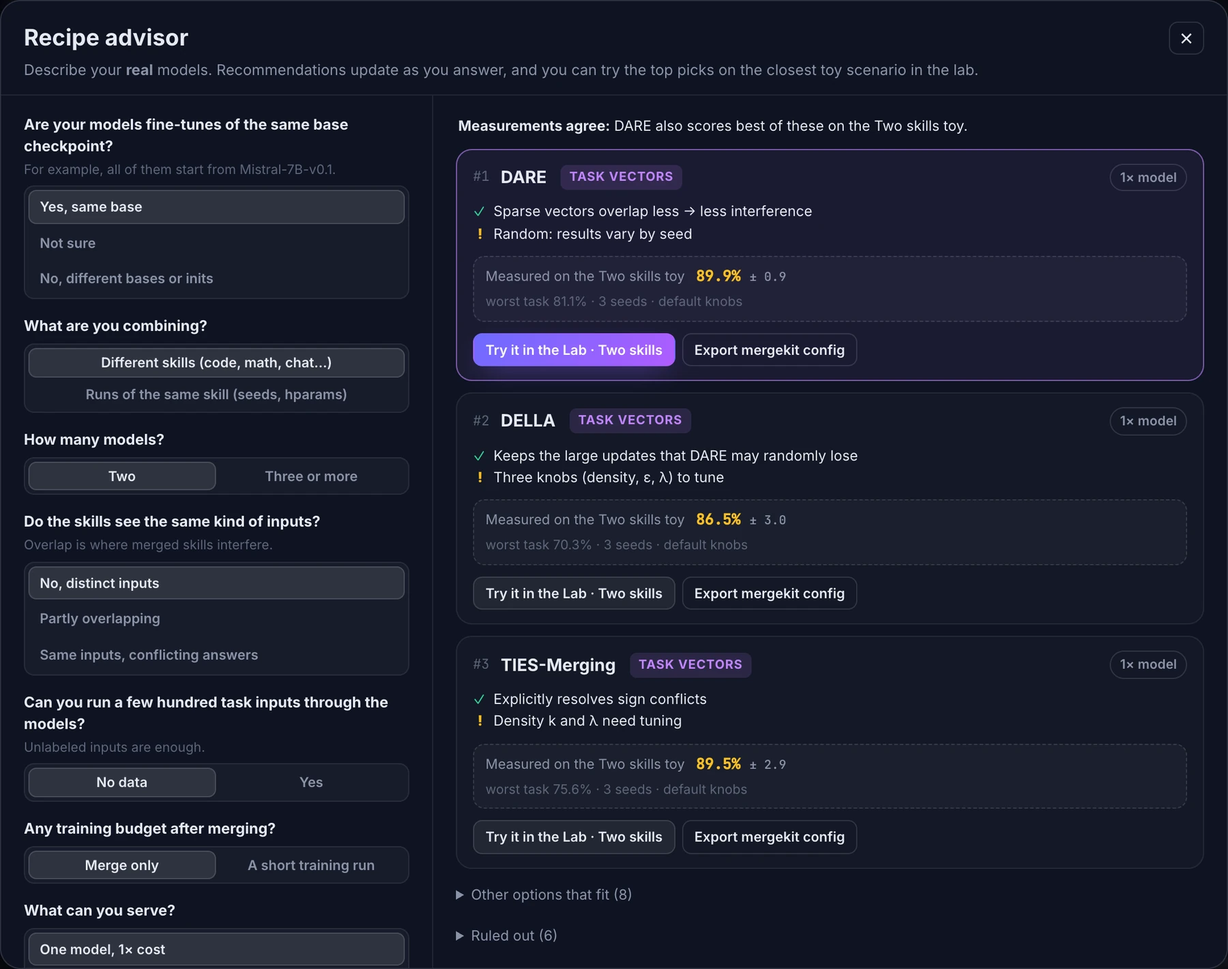
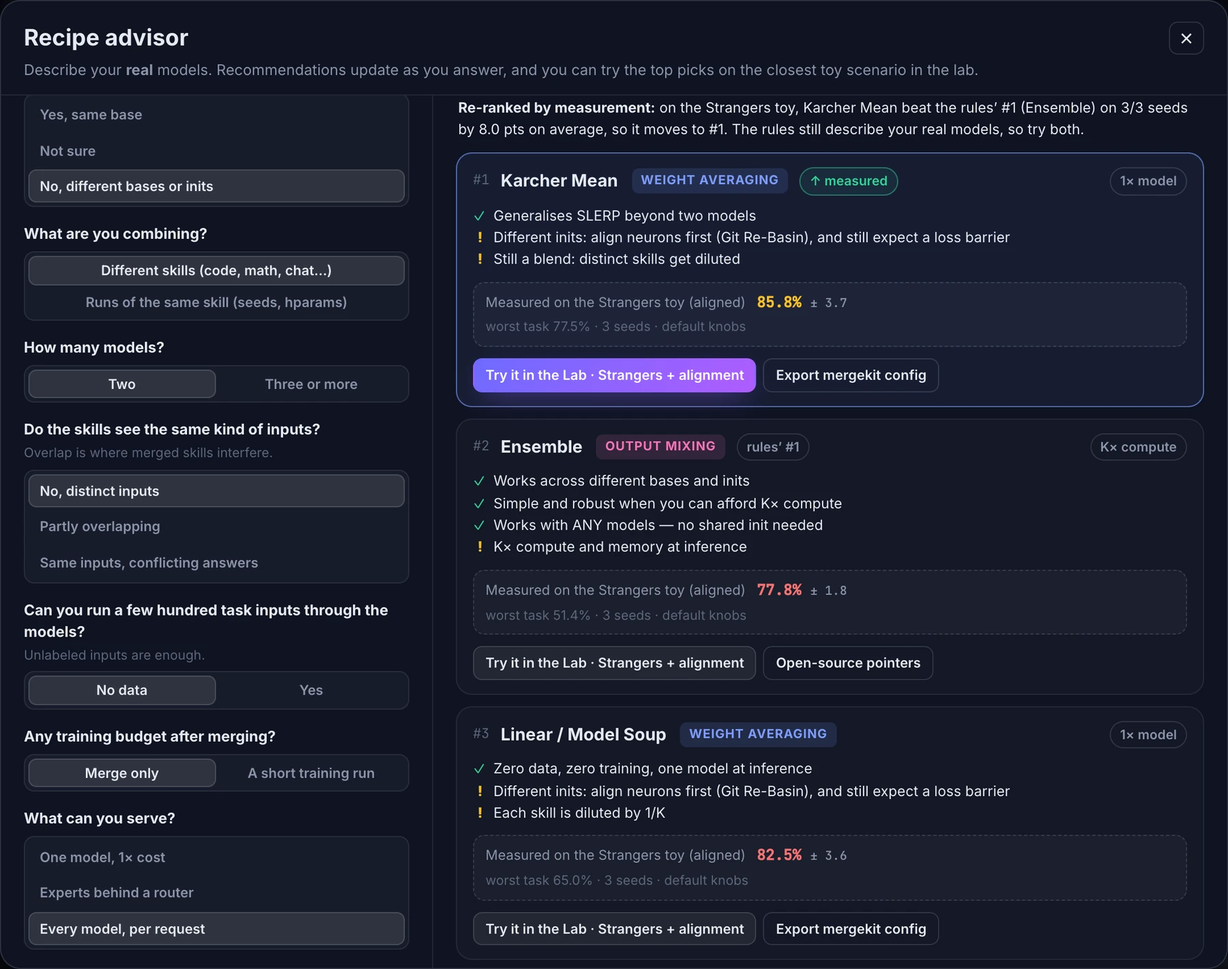
Advisor: re-rank picks when measurement clearly beats the rules
- Once the top-3 picks are measured on the closest toy (3 seeds), a lower pick that beats
  the rules' #1 under the paired test (significant or winning every seed) is promoted to
  #1 with an "↑ measured" badge and the primary Try button; the old #1 keeps a "rules' #1"
  tag; otherwise rule order stands
- Verdict line explains re-ranking vs agreement / too close / disagreement
- advisor.js blendRanking (+1 test, 52 total); screenshot script shows the re-ranked case
  (no shared base, any serving: Karcher beats Ensemble 3/3 seeds, +8.0 pts)

diff --git a/dist/modelmixer.html b/dist/modelmixer.html
@@ -589,6 +589,11 @@ dialog.advisor::backdrop { background: rgba(4, 6, 12, 0.7); backdrop-filter: blu
 .cmp-box .edge .verdict { margin: 0; font-size: 12.5px; }
 .cmp-box .edge-msg:empty { display: none; }
 
+/* advisor re-ranking */
+.rec-top .badge.moved { margin-left: 0; color: var(--muted); }
+.rec-top .badge.moved.up { color: #34d399; border-color: rgba(52, 211, 153, 0.45); background: rgba(52, 211, 153, 0.08); }
+.rec-top .badge.moved + .badge { margin-left: auto; }
+
 </style>
 </head>
 <body>
@@ -2749,7 +2754,28 @@ dialog.advisor::backdrop { background: rgba(4, 6, 12, 0.7); backdrop-filter: blu
     return { answers: a, recs, excluded, notes, scenario, align: a.base === 'no' };
   }
 
-  Object.assign(MM, { ADVISOR_QUESTIONS, ADVISOR_DEFAULTS, adviseRecipe });
+  /**
+   * Blend rules with measurement. ids = top picks in rule order; perSeed[id] = per-seed results
+   * ([{avg, …} | {blocked}], same seeds for every id). A lower pick that beats the rules' #1 under the
+   * paired test (significant, or winning every seed) is promoted to #1; otherwise the rule order stands.
+   */
+  function blendRanking(ids, perSeed) {
+    const n = Math.min(...ids.map((id) => (perSeed[id] || []).length));
+    const runs = Array.from({ length: n }, (_, s) => Object.fromEntries(ids.map((id) => [id, perSeed[id][s]])));
+    const first = ids[0];
+    let best = null;
+    for (const id of ids.slice(1)) {
+      const d = MM.pairedDiff(runs, id, first);
+      if (d.verdict === 'a' && (!best || d.mean > best.d.mean)) best = { id, d };
+    }
+    return {
+      order: best ? [best.id, ...ids.filter((x) => x !== best.id)] : ids.slice(),
+      promoted: best ? { id: best.id, over: first, d: best.d } : null,
+      runs,
+    };
+  }
+
+  Object.assign(MM, { ADVISOR_QUESTIONS, ADVISOR_DEFAULTS, adviseRecipe, blendRanking });
 })();
 
 </script>
@@ -4643,6 +4669,7 @@ dialog.advisor::backdrop { background: rgba(4, 6, 12, 0.7); backdrop-filter: blu
   const EV_SEEDS = [7, 108, 209];
   const evBundles = {}; // scenarioId -> trained bundles (one per seed)
   const evCache = {}; // `${scenario}|${align}|${id}` -> seed summary
+  const evSeeds = {}; // same key -> per-seed results, for the paired re-ranking
   let evToken = 0;
   const evKey = (r, id) => `${r.scenario}|${r.align ? 1 : 0}|${id}`;
   function evidenceHTML(id, r, sc) {
@@ -4654,7 +4681,12 @@ dialog.advisor::backdrop { background: rgba(4, 6, 12, 0.7); backdrop-filter: blu
       <span class="ev-val ${tone}">${pct(e.mean)} <small>± ${(e.sd * 100).toFixed(1)}</small></span>
       <span class="ev-sub">worst task ${pct(e.worstTask)} · ${e.seeds} seeds · default knobs</span>`;
   }
-  function evidenceVerdict(r, sc) {
+  function evidenceVerdict(r, sc, blend) {
+    const nm = (id) => MM.METHOD_BY_ID[id].name;
+    if (blend && blend.promoted) {
+      const { id, over, d } = blend.promoted;
+      return `<b>Re-ranked by measurement:</b> on the ${sc.name} toy, ${nm(id)} beat the rules’ #1 (${nm(over)}) on ${d.wins}/${d.n} seeds by ${(d.mean * 100).toFixed(1)} pts on average, so it moves to #1. The rules still describe your real models, so try both.`;
+    }
     const top = r.recs.slice(0, 3).map((x) => ({ id: x.id, e: evCache[evKey(r, x.id)] }));
     if (top.some((x) => !x.e)) return '<span class="muted">Checking these picks on a toy that resembles your setup…</span>';
     const ok = top.filter((x) => !x.e.blocked);
@@ -4693,11 +4725,18 @@ dialog.advisor::backdrop { background: rgba(4, 6, 12, 0.7); backdrop-filter: blu
       if (token !== evToken) return;
       const runs = MM.seedRuns(evBundles[r.scenario], [id], r.align, (mid, K) => MM.defaultParams(MM.METHOD_BY_ID[mid], K));
       evCache[evKey(r, id)] = MM.summarizeSeeds(runs, [id])[0];
+      evSeeds[evKey(r, id)] = runs.map((run) => run[id]);
       const el = $(`#advRecs [data-ev="${id}"]`);
       if (el) el.innerHTML = evidenceHTML(id, r, sc);
     }
-    const v = $('#evVerdict');
-    if (v && token === evToken) v.innerHTML = evidenceVerdict(r, sc);
+    // all three measured: re-render so the cards can be re-ranked by the paired evidence
+    if (token === evToken && advDlg.open) renderAdvisor();
+  }
+  /** Paired blend of rules and measurement, once all top picks are measured; null until then. */
+  function advisorBlend(r) {
+    const ids = r.recs.slice(0, 3).map((x) => x.id);
+    if (ids.length < 2 || ids.some((id) => !evSeeds[evKey(r, id)])) return null;
+    return MM.blendRanking(ids, Object.fromEntries(ids.map((id) => [id, evSeeds[evKey(r, id)]])));
   }
 
   function renderAdvisor() {
@@ -4708,12 +4747,16 @@ dialog.advisor::backdrop { background: rgba(4, 6, 12, 0.7); backdrop-filter: blu
     const sc = MM.SCENARIOS.find((x) => x.id === r.scenario);
     const uniq = (xs) => Array.from(new Set(xs));
     const cost = (m) => (m.inferenceK === true ? 'K× compute' : m.inferenceK === 'memory' ? 'K× memory' : '1× model');
-    const cards = r.recs.slice(0, 3).map((x, i) => {
+    const blend = advisorBlend(r);
+    const top3 = r.recs.slice(0, 3);
+    const ordered = blend ? blend.order.map((id) => top3.find((x) => x.id === id)) : top3;
+    const cards = ordered.map((x, i) => {
       const m = MM.METHOD_BY_ID[x.id], f = MM.FAMILIES[m.family];
+      const moved = blend && blend.promoted ? (x.id === blend.promoted.id ? 'up' : x.id === blend.promoted.over ? 'down' : '') : '';
       const pros = uniq([...x.reasons.filter((t) => !/^Shared base/.test(t)), m.pros[0]]).slice(0, 3);
       const cons = uniq([...x.caveats, m.cons[0]]).slice(0, 2);
       return `<div class="rec ${i === 0 ? 'first' : ''}" style="--fc:${f.color}">
-        <div class="rec-top"><span class="rec-rank">#${i + 1}</span><b>${m.name}</b><span class="fam-tag" style="--fc:${f.color}">${f.name}</span><span class="badge">${cost(m)}</span></div>
+        <div class="rec-top"><span class="rec-rank">#${i + 1}</span><b>${m.name}</b><span class="fam-tag" style="--fc:${f.color}">${f.name}</span>${moved === 'up' ? '<span class="badge moved up" title="Promoted: beat the rules’ #1 on the toy under the paired test">↑ measured</span>' : moved === 'down' ? '<span class="badge moved" title="The rules ranked this first">rules’ #1</span>' : ''}<span class="badge">${cost(m)}</span></div>
         <ul>${pros.map((t) => `<li class="pro">${t}</li>`).join('')}${cons.map((t) => `<li class="con">${t}</li>`).join('')}${!pros.length && !cons.length ? `<li class="pro">${m.tagline}</li>` : ''}</ul>
         <div class="evidence" data-ev="${x.id}">${evidenceHTML(x.id, r, sc)}</div>
         <div class="rec-actions">
@@ -4725,7 +4768,7 @@ dialog.advisor::backdrop { background: rgba(4, 6, 12, 0.7); backdrop-filter: blu
     const outs = r.excluded.map((x) => `<div class="alt"><b>${MM.METHOD_BY_ID[x.id].name}</b><span>${x.why}</span></div>`).join('');
     measureEvidence(r);
     $('#advRecs').innerHTML = `${r.notes.map((n) => `<div class="adv-note">${n}</div>`).join('')}
-      ${cards ? `<div class="ev-verdict" id="evVerdict">${evidenceVerdict(r, sc)}</div>` : ''}
+      ${cards ? `<div class="ev-verdict" id="evVerdict">${evidenceVerdict(r, sc, blend)}</div>` : ''}
       ${cards || '<p class="muted">Nothing fits every constraint. Relax one of them (data, training or serving) to see options.</p>'}
       ${alts ? `<details class="adv-more"><summary>Other options that fit (${r.recs.length - 3})</summary>${alts}</details>` : ''}
       ${outs ? `<details class="adv-more"><summary>Ruled out (${r.excluded.length})</summary>${outs}</details>` : ''}`;

diff --git a/js/app.js b/js/app.js
@@ -1401,6 +1401,7 @@
   const EV_SEEDS = [7, 108, 209];
   const evBundles = {}; // scenarioId -> trained bundles (one per seed)
   const evCache = {}; // `${scenario}|${align}|${id}` -> seed summary
+  const evSeeds = {}; // same key -> per-seed results, for the paired re-ranking
   let evToken = 0;
   const evKey = (r, id) => `${r.scenario}|${r.align ? 1 : 0}|${id}`;
   function evidenceHTML(id, r, sc) {
@@ -1412,7 +1413,12 @@
       <span class="ev-val ${tone}">${pct(e.mean)} <small>± ${(e.sd * 100).toFixed(1)}</small></span>
       <span class="ev-sub">worst task ${pct(e.worstTask)} · ${e.seeds} seeds · default knobs</span>`;
   }
-  function evidenceVerdict(r, sc) {
+  function evidenceVerdict(r, sc, blend) {
+    const nm = (id) => MM.METHOD_BY_ID[id].name;
+    if (blend && blend.promoted) {
+      const { id, over, d } = blend.promoted;
+      return `<b>Re-ranked by measurement:</b> on the ${sc.name} toy, ${nm(id)} beat the rules’ #1 (${nm(over)}) on ${d.wins}/${d.n} seeds by ${(d.mean * 100).toFixed(1)} pts on average, so it moves to #1. The rules still describe your real models, so try both.`;
+    }
     const top = r.recs.slice(0, 3).map((x) => ({ id: x.id, e: evCache[evKey(r, x.id)] }));
     if (top.some((x) => !x.e)) return '<span class="muted">Checking these picks on a toy that resembles your setup…</span>';
     const ok = top.filter((x) => !x.e.blocked);
@@ -1451,11 +1457,18 @@
       if (token !== evToken) return;
       const runs = MM.seedRuns(evBundles[r.scenario], [id], r.align, (mid, K) => MM.defaultParams(MM.METHOD_BY_ID[mid], K));
       evCache[evKey(r, id)] = MM.summarizeSeeds(runs, [id])[0];
+      evSeeds[evKey(r, id)] = runs.map((run) => run[id]);
       const el = $(`#advRecs [data-ev="${id}"]`);
       if (el) el.innerHTML = evidenceHTML(id, r, sc);
     }
-    const v = $('#evVerdict');
-    if (v && token === evToken) v.innerHTML = evidenceVerdict(r, sc);
+    // all three measured: re-render so the cards can be re-ranked by the paired evidence
+    if (token === evToken && advDlg.open) renderAdvisor();
+  }
+  /** Paired blend of rules and measurement, once all top picks are measured; null until then. */
+  function advisorBlend(r) {
+    const ids = r.recs.slice(0, 3).map((x) => x.id);
+    if (ids.length < 2 || ids.some((id) => !evSeeds[evKey(r, id)])) return null;
+    return MM.blendRanking(ids, Object.fromEntries(ids.map((id) => [id, evSeeds[evKey(r, id)]])));
   }
 
   function renderAdvisor() {
@@ -1466,12 +1479,16 @@
     const sc = MM.SCENARIOS.find((x) => x.id === r.scenario);
     const uniq = (xs) => Array.from(new Set(xs));
     const cost = (m) => (m.inferenceK === true ? 'K× compute' : m.inferenceK === 'memory' ? 'K× memory' : '1× model');
-    const cards = r.recs.slice(0, 3).map((x, i) => {
+    const blend = advisorBlend(r);
+    const top3 = r.recs.slice(0, 3);
+    const ordered = blend ? blend.order.map((id) => top3.find((x) => x.id === id)) : top3;
+    const cards = ordered.map((x, i) => {
       const m = MM.METHOD_BY_ID[x.id], f = MM.FAMILIES[m.family];
+      const moved = blend && blend.promoted ? (x.id === blend.promoted.id ? 'up' : x.id === blend.promoted.over ? 'down' : '') : '';
       const pros = uniq([...x.reasons.filter((t) => !/^Shared base/.test(t)), m.pros[0]]).slice(0, 3);
       const cons = uniq([...x.caveats, m.cons[0]]).slice(0, 2);
       return `<div class="rec ${i === 0 ? 'first' : ''}" style="--fc:${f.color}">
-        <div class="rec-top"><span class="rec-rank">#${i + 1}</span><b>${m.name}</b><span class="fam-tag" style="--fc:${f.color}">${f.name}</span><span class="badge">${cost(m)}</span></div>
+        <div class="rec-top"><span class="rec-rank">#${i + 1}</span><b>${m.name}</b><span class="fam-tag" style="--fc:${f.color}">${f.name}</span>${moved === 'up' ? '<span class="badge moved up" title="Promoted: beat the rules’ #1 on the toy under the paired test">↑ measured</span>' : moved === 'down' ? '<span class="badge moved" title="The rules ranked this first">rules’ #1</span>' : ''}<span class="badge">${cost(m)}</span></div>
         <ul>${pros.map((t) => `<li class="pro">${t}</li>`).join('')}${cons.map((t) => `<li class="con">${t}</li>`).join('')}${!pros.length && !cons.length ? `<li class="pro">${m.tagline}</li>` : ''}</ul>
         <div class="evidence" data-ev="${x.id}">${evidenceHTML(x.id, r, sc)}</div>
         <div class="rec-actions">
@@ -1483,7 +1500,7 @@
     const outs = r.excluded.map((x) => `<div class="alt"><b>${MM.METHOD_BY_ID[x.id].name}</b><span>${x.why}</span></div>`).join('');
     measureEvidence(r);
     $('#advRecs').innerHTML = `${r.notes.map((n) => `<div class="adv-note">${n}</div>`).join('')}
-      ${cards ? `<div class="ev-verdict" id="evVerdict">${evidenceVerdict(r, sc)}</div>` : ''}
+      ${cards ? `<div class="ev-verdict" id="evVerdict">${evidenceVerdict(r, sc, blend)}</div>` : ''}
       ${cards || '<p class="muted">Nothing fits every constraint. Relax one of them (data, training or serving) to see options.</p>'}
       ${alts ? `<details class="adv-more"><summary>Other options that fit (${r.recs.length - 3})</summary>${alts}</details>` : ''}
       ${outs ? `<details class="adv-more"><summary>Ruled out (${r.excluded.length})</summary>${outs}</details>` : ''}`;

diff --git a/tests/suite.js b/tests/suite.js
@@ -183,6 +183,18 @@
       assert(csv[2] === '7,moe,,,,,"needs data, ""really"""', csv[2]);
     });
 
+    test('blendRanking: promotes a pick that beats the rules\' #1 on every seed, otherwise keeps rule order', () => {
+      const r = (xs) => xs.map((avg) => ({ avg }));
+      const win = MM.blendRanking(['a', 'b', 'c'], { a: r([0.80, 0.82, 0.81]), b: r([0.86, 0.88, 0.85]), c: r([0.79, 0.90, 0.70]) });
+      assert(win.order.join() === 'b,a,c' && win.promoted.id === 'b' && win.promoted.over === 'a', JSON.stringify(win.order));
+      const noisy = MM.blendRanking(['a', 'b', 'c'], { a: r([0.80, 0.82, 0.81]), b: r([0.86, 0.78, 0.85]), c: r([0.7, 0.7, 0.7]) });
+      assert(noisy.order.join() === 'a,b,c' && !noisy.promoted, `noisy: ${noisy.order}`);
+      const two = MM.blendRanking(['a', 'b', 'c'], { a: r([0.5, 0.5, 0.5]), b: r([0.6, 0.6, 0.6]), c: r([0.9, 0.9, 0.9]) });
+      assert(two.order[0] === 'c', 'the bigger consistent winner is promoted');
+      const blocked = MM.blendRanking(['a', 'b'], { a: r([0.8, 0.8, 0.8]), b: [{ blocked: 'x' }, { blocked: 'x' }, { blocked: 'x' }] });
+      assert(blocked.order.join() === 'a,b', 'a blocked pick is never promoted');
+    });
+
     // ---------- training ----------
     const cfgTwo = scenario('two');
     const T = MM.trainBundleSync(cfgTwo);

diff --git a/js/advisor.js b/js/advisor.js
@@ -114,5 +114,26 @@
     return { answers: a, recs, excluded, notes, scenario, align: a.base === 'no' };
   }
 
-  Object.assign(MM, { ADVISOR_QUESTIONS, ADVISOR_DEFAULTS, adviseRecipe });
+  /**
+   * Blend rules with measurement. ids = top picks in rule order; perSeed[id] = per-seed results
+   * ([{avg, …} | {blocked}], same seeds for every id). A lower pick that beats the rules' #1 under the
+   * paired test (significant, or winning every seed) is promoted to #1; otherwise the rule order stands.
+   */
+  function blendRanking(ids, perSeed) {
+    const n = Math.min(...ids.map((id) => (perSeed[id] || []).length));
+    const runs = Array.from({ length: n }, (_, s) => Object.fromEntries(ids.map((id) => [id, perSeed[id][s]])));
+    const first = ids[0];
+    let best = null;
+    for (const id of ids.slice(1)) {
+      const d = MM.pairedDiff(runs, id, first);
+      if (d.verdict === 'a' && (!best || d.mean > best.d.mean)) best = { id, d };
+    }
+    return {
+      order: best ? [best.id, ...ids.filter((x) => x !== best.id)] : ids.slice(),
+      promoted: best ? { id: best.id, over: first, d: best.d } : null,
+      runs,
+    };
+  }
+
+  Object.assign(MM, { ADVISOR_QUESTIONS, ADVISOR_DEFAULTS, adviseRecipe, blendRanking });
 })();

diff --git a/css/styles.css b/css/styles.css
@@ -576,3 +576,8 @@ dialog.advisor::backdrop { background: rgba(4, 6, 12, 0.7); backdrop-filter: blu
 .cmp-box .edge { margin-top: 10px; display: flex; flex-direction: column; gap: 6px; align-items: flex-start; }
 .cmp-box .edge .verdict { margin: 0; font-size: 12.5px; }
 .cmp-box .edge-msg:empty { display: none; }
+
+/* advisor re-ranking */
+.rec-top .badge.moved { margin-left: 0; color: var(--muted); }
+.rec-top .badge.moved.up { color: #34d399; border-color: rgba(52, 211, 153, 0.45); background: rgba(52, 211, 153, 0.08); }
+.rec-top .badge.moved + .badge { margin-left: auto; }

diff --git a/scripts/screenshots.py b/scripts/screenshots.py
@@ -77,9 +77,14 @@ with sync_playwright() as p:
 
     # 4. Recipe advisor with measured evidence
     page.click("#openAdvisor")
-    page.wait_for_function("() => !/Checking/.test(document.querySelector('#evVerdict').textContent)", timeout=60000)
+    # show the measured re-ranking: no shared base, any serving → rules pick Ensemble, measurement promotes another
+    page.click('[data-adv="base"] [data-v="no"]')
+    page.click('[data-adv="deploy"] [data-v="any"]')
+    page.wait_for_function("() => /Re-ranked|agree|close|disagree/.test(document.querySelector('#evVerdict').textContent)", timeout=90000)
     page.wait_for_timeout(300)
     page.locator("#advisor").screenshot(path=str(OUT / "advisor.png"))
+    page.click('[data-adv="base"] [data-v="yes"]')
+    page.click('[data-adv="deploy"] [data-v="single"]')
     page.click("#closeAdvisor")
     print("advisor")
 

diff --git a/IMPROVEMENTS.md b/IMPROVEMENTS.md
@@ -14,14 +14,14 @@ errors, no horizontal scroll at 375px) and moves it to *Done* with the date.
 ## Next up (highest value first)
 
 1. **Newer methods, part 3:** Localize-and-Stitch (learned sparse masks per task), plus an AdaMerging variant with a confidence-calibrated objective, since plain entropy minimisation over-sharpens on the toy.
-2. **Advisor blending:** let the measured toy evidence nudge the ranking (e.g. promote a pick that clearly beats the rule-based #1), and show the measured-vs-rules disagreement in the Arena too.
-3. **Per-layer sweep:** a heat map over two layers' gradient values (e.g. SLERP t for hidden 1 vs output), showing which layer the merge is most sensitive to.
-4. **Digits extras:** a conflict scenario (0-vs-1 with 1-vs-7, where both claim the "1"s), a per-pixel saliency view of what each merge kept, and digit-aware advisor evidence.
-5. **Accessibility pass:** keyboard focus rings and arrow-key navigation in the method picker, ARIA
+2. **Per-layer sweep:** a heat map over two layers' gradient values (e.g. SLERP t for hidden 1 vs output), showing which layer the merge is most sensitive to.
+3. **Digits extras:** a conflict scenario (0-vs-1 with 1-vs-7, where both claim the "1"s), a per-pixel saliency view of what each merge kept, and digit-aware advisor evidence.
+4. **Accessibility pass:** keyboard focus rings and arrow-key navigation in the method picker, ARIA
    labels on canvases, and a colour-blind-safe palette option.
 
 ## Done
 
+- 2026-11-22: **Advisor blending.** Once the top-3 picks are measured on the closest toy (3 seeds), a lower pick that beats the rules' #1 under the paired test (significant, or winning every seed) moves to #1. It gets an "↑ measured" badge and the primary "Try it" button, and the old #1 keeps a "rules' #1" tag. Otherwise the rule order stands, and the verdict line explains which case applied. Example: with no shared base and any serving allowed, Karcher beats the rules' Ensemble on 3/3 seeds (+8.0 pts) and is promoted; with default answers, measurements agree and nothing moves. `blendRanking` in `js/advisor.js`, 1 test (52 total). The advisor screenshot now shows the re-ranked case.
 - 2026-11-22: **Compare extras** (moved ahead of more methods: with 17 methods, helping people choose between two matters more than an 18th). In compare mode the B map shades where A and B predict different classes (amber, inside the skill regions) and draws A's boundary dashed. Test points (plane) or digit tiles where the recipes disagree get an amber marker, and an "A ≠ B" toggle and legend are added. "Is B's edge real?" runs both recipes on the same 5 seeds and gives the paired verdict, with the same wording as the Arena head-to-head (shared `pairVerdict`). Extra-seed trainings now live in one cache shared by the sweep band, the Arena check and the edge check, so re-checks are much faster (Arena 5 seeds after an edge check: 6 s instead of about 18 s; sweep band: 0.4 s instead of about 8 s). Example: DARE vs TIES on Two skills is "no reliable difference" (+0.4 pts, 3 vs 2). `recipeRuns` in `js/lab.js`, 1 test (51 total).
 - 2026-11-22: **SCE and AdaMerging** (17 methods). SCE selects high-variance entries, weights experts by energy and erases minority signs. Its default top-k is 0.7 from the 9-bundle grid (88.3 ± 6.3, worst 81.0 vs top-k 1: 88.5 ± 8.3, worst 76.1); it exports to mergekit `sce` and supports per-layer λ. AdaMerging learns task-wise (K) or layer-wise (K×L) λ by minimising prediction entropy on unlabeled inputs, using finite-difference Adam over 40 steps. Export writes the learned λs as a mergekit task-arithmetic config with per-layer weight lists. Toy finding: it reliably lowers entropy (layer-wise 0.048 → 0.007) but trails Task Arithmetic on average (80–81 vs 84.5 over 9 bundles), because entropy rewards confident mistakes. Tests: task-wise AdaMerging equals Task Arithmetic with the learned λs exactly, entropy decreases, and SCE selects the requested fraction. At top-k 1 SCE skips the entries where experts agree exactly (17% here). 50 tests.
 - 2026-11-21: **Head-to-head + seed count + CSV** in the Arena's multi-seed check. Choose 3, 5 or 10 seeds. Pick any two methods to see per-seed A − B dots, a ±1 sd band and a verdict from a paired t-test plus sign consistency. Verdicts: beats / leans ahead (never loses, but not yet significant: run 10 seeds) / no reliable difference / same, and borderline results are flagged as tentative. The default pair is the two best free merges. Download CSV exports every seed × method row. Found on Two skills: at 5 seeds Breadcrumbs only *leans* ahead of DARE (t 1.88), and at 10 seeds it beats DARE (9/10, t 3.33) and TIES (10/10, t 5.78). `pairedDiff` / `seedRunsCSV` in `js/lab.js`, 2 tests (46 total; the earlier "46" in the DELLA commit message was a miscount of 44).

diff --git a/README.md b/README.md
@@ -16,7 +16,7 @@ JavaScript in the browser.
 | | |
 | --- | --- |
 | ![Pin to compare: TIES pinned as A next to DARE as B, with per-task deltas](docs/screenshots/compare.webp) | ![Recipe advisor: questions about your real models on the left, ranked recipes with measured toy evidence on the right](docs/screenshots/advisor.webp) |
-| **Pin to compare.** Freeze a recipe as A, tweak B: both maps, where they disagree (amber), and a paired check of whether B's edge is real. | **Recipe advisor.** Describe your real models and get ranked recipes, each measured on the closest toy over 3 seeds. |
+| **Pin to compare.** Freeze a recipe as A, tweak B: both maps, where they disagree (amber), and a paired check of whether B's edge is real. | **Recipe advisor.** Describe your real models and get ranked recipes, measured on the closest toy and re-ranked when the measurement clearly disagrees with the rules. |
 | ![Knob sensitivity: TIES density swept with a ±1 sd band over 3 seeds, best and safe markers](docs/screenshots/sweep.webp) | ![Is the winner real? Multi-seed robustness table with per-seed dots and stability labels](docs/screenshots/robustness.webp) |
 | **Knob sensitivity.** How forgiving is each knob? Best and safest settings, with a seed band that exposes lucky peaks. | **Is the winner real?** Every method retrained on 3–10 seeds: mean ± sd, wins, stability and a paired head-to-head. |
 | ![Arena leaderboard: every method on the same experts with accuracy, retention, cost and requirements](docs/screenshots/arena.webp) | ![Digits scenario: a gallery of 8×8 test digits tinted by predicted class, with mistakes ringed in red](docs/screenshots/digits.webp) |
@@ -46,7 +46,7 @@ python3 scripts/bundle.py
 | **Mix Lab** | Pick a scenario and experts, choose a mixing method, tune its knobs live. **Per-layer values** (mergekit gradients) for SLERP t, Linear balance and task-vector λ, exported as `t: [0.25, 0.50, 0.75]`-style lists. **Knob sensitivity** sweeps the active knob and marks the best and safest settings, with an optional ± 3-seed band. **Pin to compare** freezes a recipe as A so you can tweak B and see both decision maps side by side, with per-task deltas, an amber map of where A and B disagree, and a one-click paired 5-seed check of whether B's edge is real. See the merged model's decision boundary, a per-task scorecard against each expert and the base, what the method needs, how it works, its strengths and *missing pieces*, a weight-provenance map and task-vector geometry. |
 | **Arena** | Every method on the same experts: leaderboard (accuracy, retention, inference cost, memory, requirements), a **multi-seed robustness check** (3, 5 or 10 seeds: mean ± sd, wins and stability, a verdict on whether the winner is real, a paired **head-to-head** between any two methods, and CSV export), a gallery of decision maps, the A→B interpolation path (loss barriers, with and without neuron alignment) and a λ sweep for Task Arithmetic / TIES / DARE. |
 | **Share** | 🔗 in the top bar copies a link (`…/modelmixer.html#r=…`) that reopens the exact recipe: experts, training settings, method, knobs, alignment and any pinned comparison. The address bar stays in sync too. |
-| **Recipe advisor** | ✨ in the top bar: answer 7 questions about your real models (shared base? data? training budget? how you serve?) and get ranked recipes with reasons, caveats and ruled-out methods. Each pick is also measured on the closest toy scenario over 3 seeds, with a verdict on whether the measurements agree with the rules. Open a pick in the Lab on the closest scenario, or jump to Export. |
+| **Recipe advisor** | ✨ in the top bar: answer 7 questions about your real models (shared base? data? training budget? how you serve?) and get ranked recipes with reasons, caveats and ruled-out methods. Each pick is also measured on the closest toy scenario over 3 seeds. If a lower pick beats the rules' #1 on the paired test, it is re-ranked to #1, and the verdict says why. Open a pick in the Lab on the closest scenario, or jump to Export. |
 | **Atlas** | A capability matrix (needs base? data? training? single-model inference? tolerates different inits? handles interference?), a "which mix should I reach for" guide, method families and a glossary. |
 | **Export** | Generates the matching mergekit (`mergekit-yaml` / `mergekit-moe`) config from your lab recipe, plus pointers to open-source implementations for methods mergekit doesn't cover. |
 
